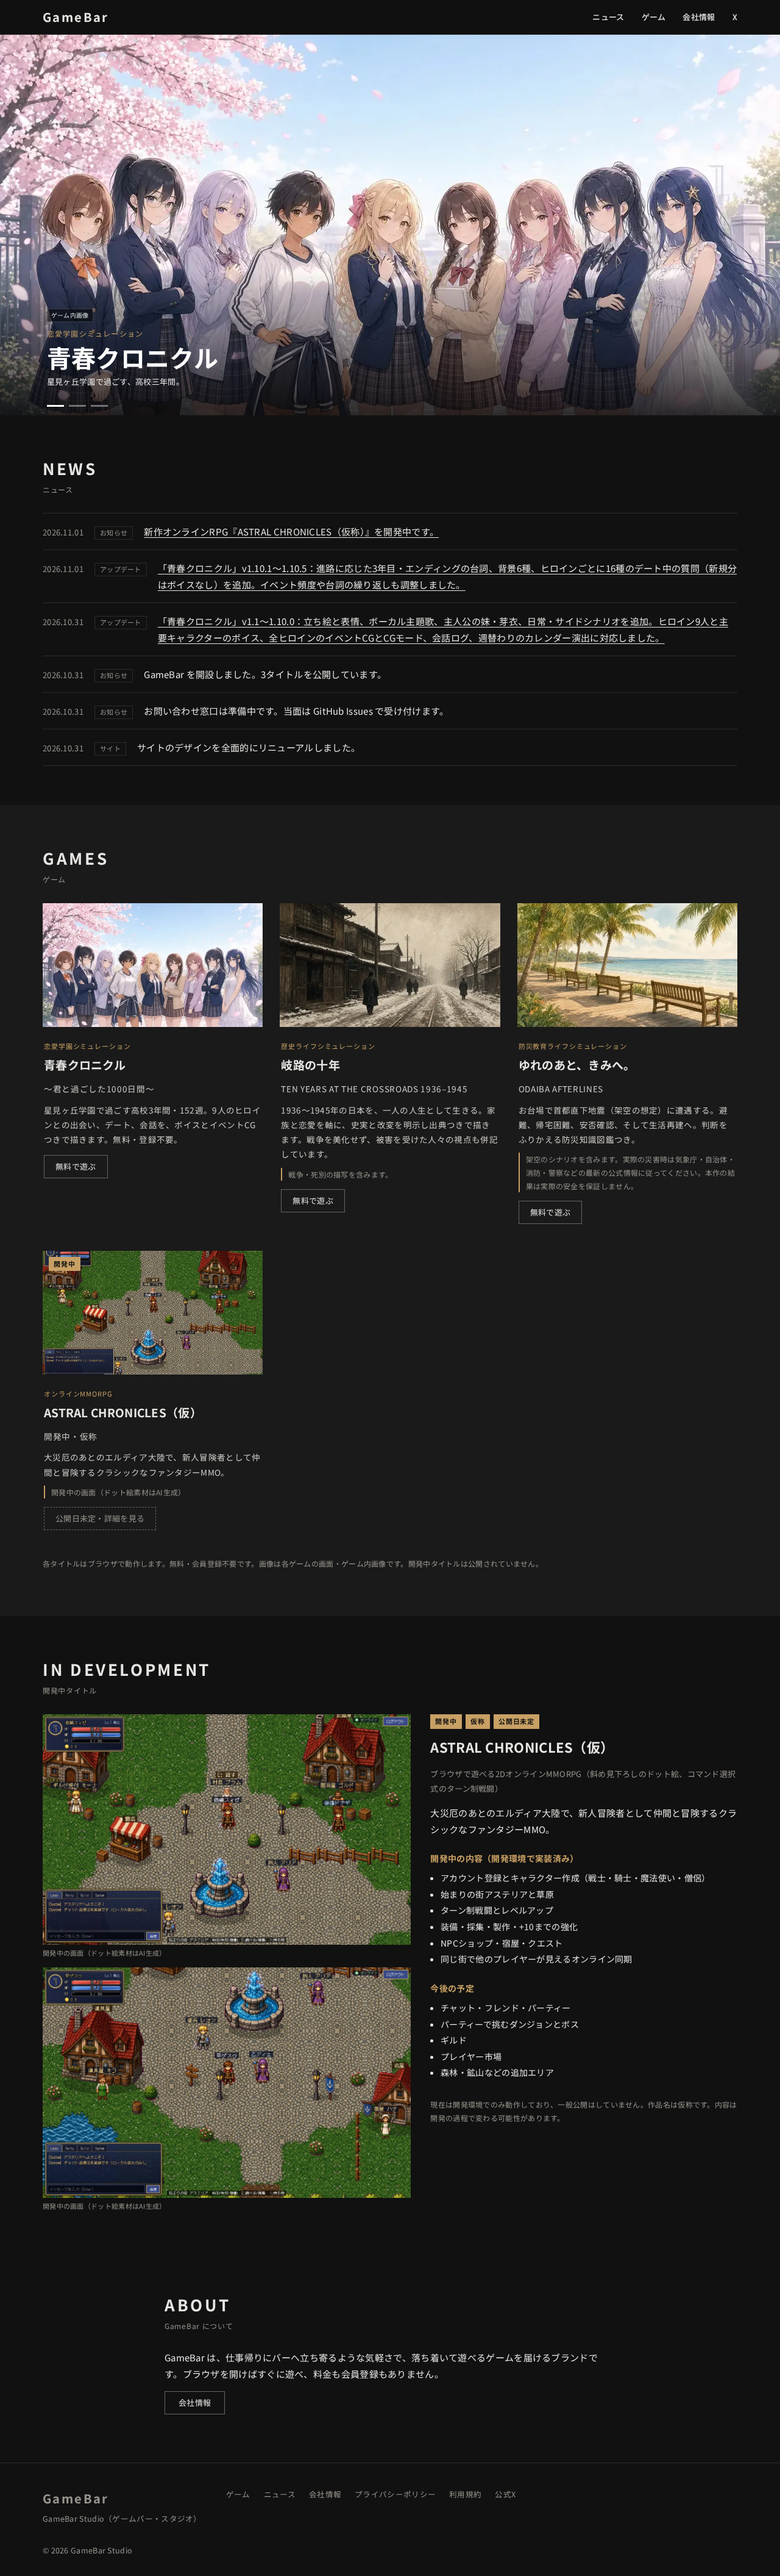
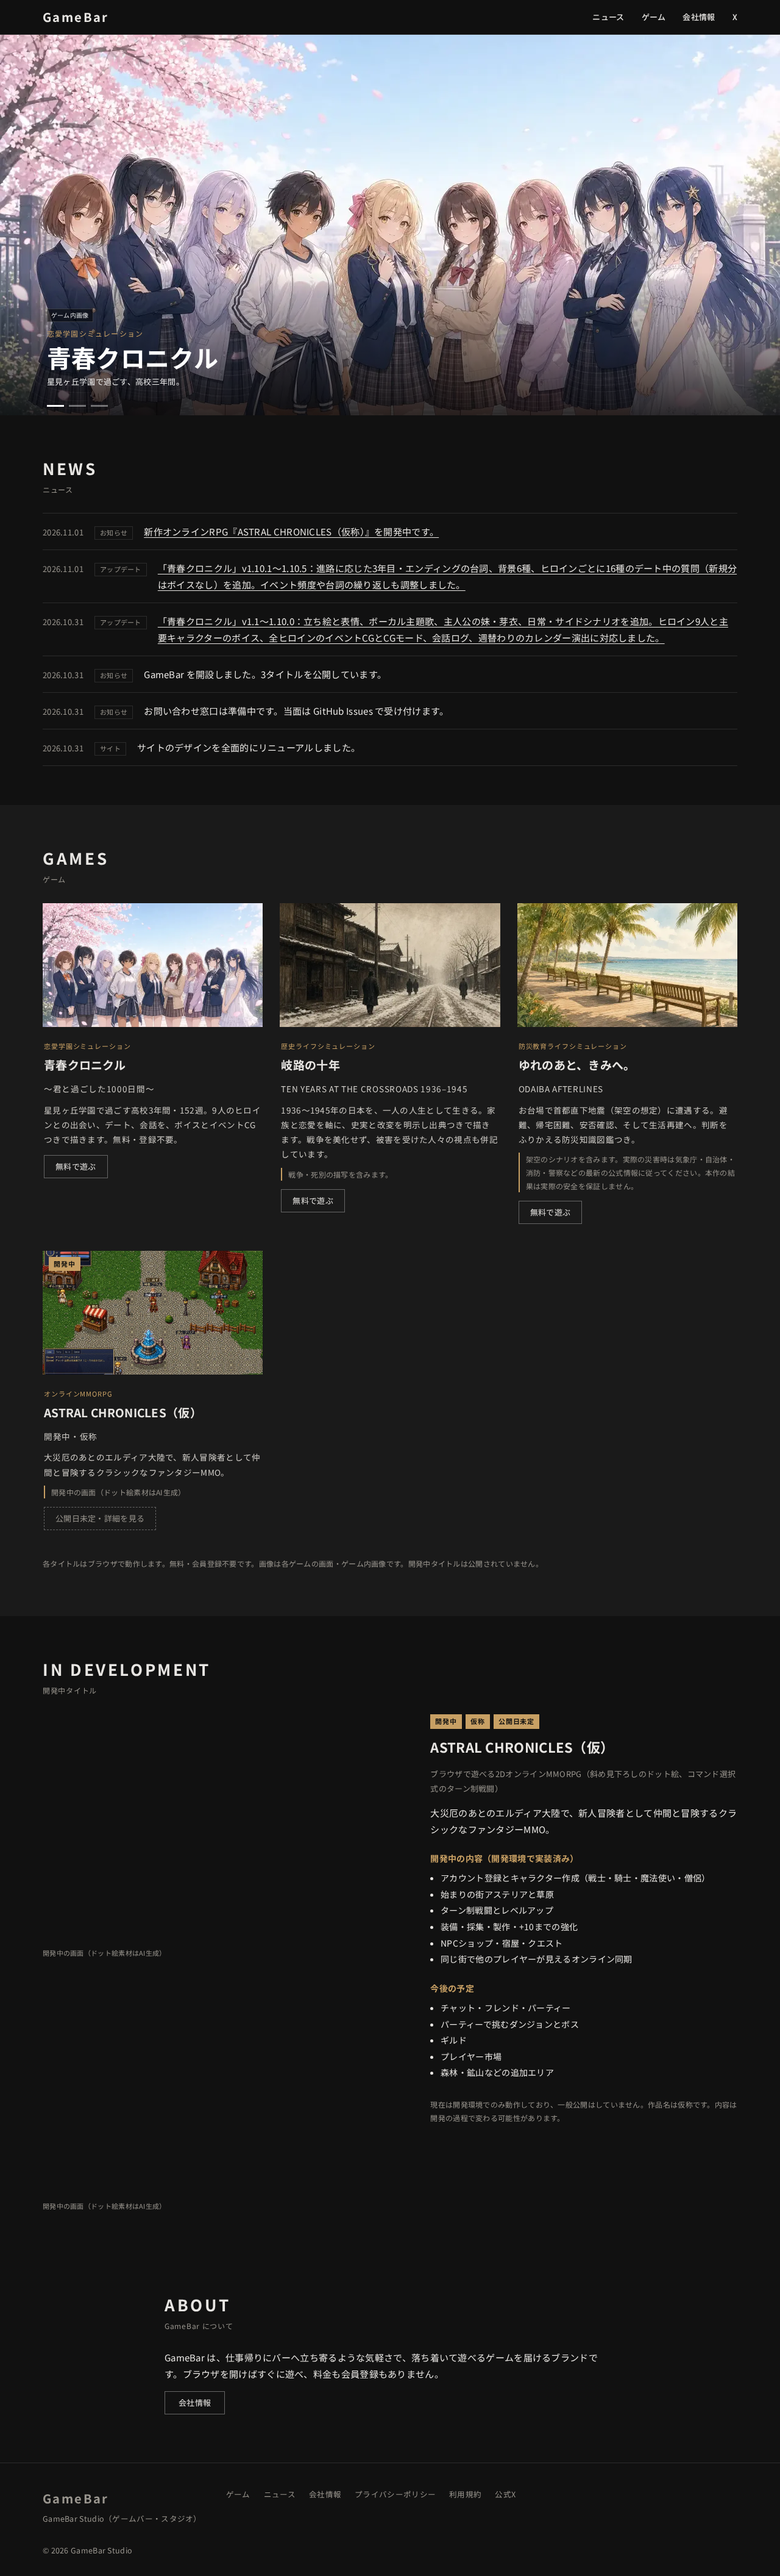
Fix #astral hidden by content blockers: rename .ad/.ai/.at classes, eager images, add astral visibility check

Changed region(s): [[0.0312, 0.6562, 0.5312, 0.875]]

diff --git a/index.html b/index.html
@@ -7,7 +7,7 @@
 <nav class="gn"><a href="/#news">ニュース</a><a href="/#games">ゲーム</a><a href="/about.html">会社情報</a><a href="https://x.com/GameBar777" rel="noopener" target="_blank">X</a></nav></div></header><main><section class="kv" aria-label="注目のタイトル"><div class="sls"><a class="sl on" href="https://gamebar777.github.io/seishun-chronicle/"><img src="img/kv-ripple-years-l.webp" srcset="img/kv-ripple-years-s.webp 640w, img/kv-ripple-years-l.webp 1280w" sizes="100vw" alt="青春クロニクル" width="1280" height="720" fetchpriority="high"><span class="cap"><em>恋愛学園シミュレーション</em><b>青春クロニクル</b><span>星見ヶ丘学園で過ごす、高校三年間。</span><i class="lbl">ゲーム内画像</i></span></a><a class="sl" href="https://gamebar777.github.io/showa-crossroads/"><img src="img/kv-showa-crossroads-l.webp" srcset="img/kv-showa-crossroads-s.webp 640w, img/kv-showa-crossroads-l.webp 1280w" sizes="100vw" alt="岐路の十年" width="1280" height="720" loading="lazy"><span class="cap"><em>歴史ライフシミュレーション</em><b>岐路の十年</b><span>一九三六年から一九四五年。一人の人生として、あの十年を生きる。</span><i class="lbl">ゲーム内画像（AI再現イメージ）</i></span></a><a class="sl" href="https://gamebar777.github.io/odaiba-afterlines/"><img src="img/kv-odaiba-afterlines-l.webp" srcset="img/kv-odaiba-afterlines-s.webp 640w, img/kv-odaiba-afterlines-l.webp 1280w" sizes="100vw" alt="ゆれのあと、きみへ。" width="1280" height="720" loading="lazy"><span class="cap"><em>防災教育ライフシミュレーション</em><b>ゆれのあと、きみへ。</b><span>平日の午後、お台場。そのとき、あなたはどう動くか。</span><i class="lbl">ゲーム内画像</i></span></a></div><div class="dots"><button type="button" aria-label="1枚目" class="on"></button><button type="button" aria-label="2枚目" class=""></button><button type="button" aria-label="3枚目" class=""></button></div></section>
 <section class="sec" id="news"><div class="in"><h2>NEWS<small>ニュース</small></h2><ul class="news"><li><time datetime="2026-11-01">2026.11.01</time><span class="cat">お知らせ</span><p><a href="/#astral">新作オンラインRPG『ASTRAL CHRONICLES（仮称）』を開発中です。</a></p></li><li><time datetime="2026-11-01">2026.11.01</time><span class="cat">アップデート</span><p><a href="https://gamebar777.github.io/seishun-chronicle/">「青春クロニクル」v1.10.1〜1.10.5：進路に応じた3年目・エンディングの台詞、背景6種、ヒロインごとに16種のデート中の質問（新規分はボイスなし）を追加。イベント頻度や台詞の繰り返しも調整しました。</a></p></li><li><time datetime="2026-10-31">2026.10.31</time><span class="cat">アップデート</span><p><a href="https://gamebar777.github.io/seishun-chronicle/">「青春クロニクル」v1.1〜1.10.0：立ち絵と表情、ボーカル主題歌、主人公の妹・芽衣、日常・サイドシナリオを追加。ヒロイン9人と主要キャラクターのボイス、全ヒロインのイベントCGとCGモード、会話ログ、週替わりのカレンダー演出に対応しました。</a></p></li><li><time datetime="2026-10-31">2026.10.31</time><span class="cat">お知らせ</span><p>GameBar を開設しました。3タイトルを公開しています。</p></li><li><time datetime="2026-10-31">2026.10.31</time><span class="cat">お知らせ</span><p>お問い合わせ窓口は準備中です。当面は GitHub Issues で受け付けます。</p></li><li><time datetime="2026-10-31">2026.10.31</time><span class="cat">サイト</span><p>サイトのデザインを全面的にリニューアルしました。</p></li></ul></div></section>
 <section class="sec alt" id="games"><div class="in"><h2>GAMES<small>ゲーム</small></h2><ul class="grid"><li class="gc"><a href="https://gamebar777.github.io/seishun-chronicle/"><div class="th"><img src="img/kv-ripple-years-s.webp" alt="" width="640" height="360" loading="lazy"></div><div class="tx"><em>恋愛学園シミュレーション</em><h3>青春クロニクル</h3><p class="st">～君と過ごした1000日間～</p><p>星見ヶ丘学園で過ごす高校3年間・152週。9人のヒロインとの出会い、デート、会話を、ボイスとイベントCGつきで描きます。無料・登録不要。</p><span class="pl">無料で遊ぶ</span></div></a></li><li class="gc"><a href="https://gamebar777.github.io/showa-crossroads/"><div class="th"><img src="img/kv-showa-crossroads-s.webp" alt="" width="640" height="360" loading="lazy"></div><div class="tx"><em>歴史ライフシミュレーション</em><h3>岐路の十年</h3><p class="st">TEN YEARS AT THE CROSSROADS 1936–1945</p><p>1936〜1945年の日本を、一人の人生として生きる。家族と恋愛を軸に、史実と改変を明示し出典つきで描きます。戦争を美化せず、被害を受けた人々の視点も併記しています。</p><p class="nt">戦争・死別の描写を含みます。</p><span class="pl">無料で遊ぶ</span></div></a></li><li class="gc"><a href="https://gamebar777.github.io/odaiba-afterlines/"><div class="th"><img src="img/kv-odaiba-afterlines-s.webp" alt="" width="640" height="360" loading="lazy"></div><div class="tx"><em>防災教育ライフシミュレーション</em><h3>ゆれのあと、きみへ。</h3><p class="st">ODAIBA AFTERLINES</p><p>お台場で首都直下地震（架空の想定）に遭遇する。避難、帰宅困難、安否確認、そして生活再建へ。判断をふりかえる防災知識図鑑つき。</p><p class="nt">架空のシナリオを含みます。実際の災害時は気象庁・自治体・消防・警察などの最新の公式情報に従ってください。本作の結果は実際の安全を保証しません。</p><span class="pl">無料で遊ぶ</span></div></a></li><li class="gc dev"><a href="#astral"><div class="th"><img src="img/astral-town-s.webp" alt="ASTRAL CHRONICLES（仮）開発中の画面" width="640" height="360" loading="lazy"><i class="dvb">開発中</i></div><div class="tx"><em>オンラインMMORPG</em><h3>ASTRAL CHRONICLES（仮）</h3><p class="st">開発中・仮称</p><p>大災厄のあとのエルディア大陸で、新人冒険者として仲間と冒険するクラシックなファンタジーMMO。</p><p class="nt">開発中の画面（ドット絵素材はAI生成）</p><span class="pl off">公開日未定・詳細を見る</span></div></a></li></ul><p class="fine">各タイトルはブラウザで動作します。無料・会員登録不要です。画像は各ゲームの画面・ゲーム内画像です。開発中タイトルは公開されていません。</p></div></section>
-<section class="sec astral" id="astral"><div class="in"><h2>IN DEVELOPMENT<small>開発中タイトル</small></h2><div class="ad"><div class="ai"><figure><img src="img/astral-town.webp" alt="始まりの街アステリアの開発中画面" width="1280" height="800" loading="lazy"><figcaption>開発中の画面（ドット絵素材はAI生成）</figcaption></figure><figure><img src="img/astral-online.webp" alt="同じ街に他のプレイヤーが表示される開発中画面" width="1280" height="800" loading="lazy"><figcaption>開発中の画面（ドット絵素材はAI生成）</figcaption></figure></div><div class="at"><p class="tags"><span class="dvb">開発中</span><span class="dvb">仮称</span><span class="dvb">公開日未定</span></p><h3>ASTRAL CHRONICLES（仮）</h3><p class="gn2">ブラウザで遊べる2DオンラインMMORPG（斜め見下ろしのドット絵、コマンド選択式のターン制戦闘）</p><p>大災厄のあとのエルディア大陸で、新人冒険者として仲間と冒険するクラシックなファンタジーMMO。</p><h4>開発中の内容（開発環境で実装済み）</h4><ul><li>アカウント登録とキャラクター作成（戦士・騎士・魔法使い・僧侶）</li><li>始まりの街アステリアと草原</li><li>ターン制戦闘とレベルアップ</li><li>装備・採集・製作・+10までの強化</li><li>NPCショップ・宿屋・クエスト</li><li>同じ街で他のプレイヤーが見えるオンライン同期</li></ul><h4>今後の予定</h4><ul><li>チャット・フレンド・パーティー</li><li>パーティーで挑むダンジョンとボス</li><li>ギルド</li><li>プレイヤー市場</li><li>森林・鉱山などの追加エリア</li></ul><p class="fine">現在は開発環境でのみ動作しており、一般公開はしていません。作品名は仮称です。内容は開発の過程で変わる可能性があります。</p></div></div></div></section><section class="sec" id="about"><div class="in narrow"><h2>ABOUT<small>GameBar について</small></h2><p>GameBar は、仕事帰りにバーへ立ち寄るような気軽さで、落ち着いて遊べるゲームを届けるブランドです。ブラウザを開けばすぐに遊べ、料金も会員登録もありません。</p><p><a class="more" href="/about.html">会社情報</a></p></div></section>
+<section class="sec astral" id="astral"><div class="in"><h2>IN DEVELOPMENT<small>開発中タイトル</small></h2><div class="dvw"><div class="dvm"><figure><img src="img/astral-town.webp" alt="始まりの街アステリアの開発中画面" width="1280" height="800" decoding="async"><figcaption>開発中の画面（ドット絵素材はAI生成）</figcaption></figure><figure><img src="img/astral-online.webp" alt="同じ街に他のプレイヤーが表示される開発中画面" width="1280" height="800" decoding="async"><figcaption>開発中の画面（ドット絵素材はAI生成）</figcaption></figure></div><div class="dvt"><p class="tags"><span class="dvb">開発中</span><span class="dvb">仮称</span><span class="dvb">公開日未定</span></p><h3>ASTRAL CHRONICLES（仮）</h3><p class="gn2">ブラウザで遊べる2DオンラインMMORPG（斜め見下ろしのドット絵、コマンド選択式のターン制戦闘）</p><p>大災厄のあとのエルディア大陸で、新人冒険者として仲間と冒険するクラシックなファンタジーMMO。</p><h4>開発中の内容（開発環境で実装済み）</h4><ul><li>アカウント登録とキャラクター作成（戦士・騎士・魔法使い・僧侶）</li><li>始まりの街アステリアと草原</li><li>ターン制戦闘とレベルアップ</li><li>装備・採集・製作・+10までの強化</li><li>NPCショップ・宿屋・クエスト</li><li>同じ街で他のプレイヤーが見えるオンライン同期</li></ul><h4>今後の予定</h4><ul><li>チャット・フレンド・パーティー</li><li>パーティーで挑むダンジョンとボス</li><li>ギルド</li><li>プレイヤー市場</li><li>森林・鉱山などの追加エリア</li></ul><p class="fine">現在は開発環境でのみ動作しており、一般公開はしていません。作品名は仮称です。内容は開発の過程で変わる可能性があります。</p></div></div></div></section><section class="sec" id="about"><div class="in narrow"><h2>ABOUT<small>GameBar について</small></h2><p>GameBar は、仕事帰りにバーへ立ち寄るような気軽さで、落ち着いて遊べるゲームを届けるブランドです。ブラウザを開けばすぐに遊べ、料金も会員登録もありません。</p><p><a class="more" href="/about.html">会社情報</a></p></div></section>
 <script>(()=>{const s=[...document.querySelectorAll('.sl')],d=[...document.querySelectorAll('.dots button')];let i=0,t;const go=n=>{s[i].classList.remove('on');d[i].classList.remove('on');i=(n+s.length)%s.length;s[i].classList.add('on');d[i].classList.add('on')};
 d.forEach((b,n)=>b.onclick=()=>{go(n);clearInterval(t)});if(!matchMedia('(prefers-reduced-motion: reduce)').matches)t=setInterval(()=>go(i+1),6000)})()</script></main><footer class="gf"><div class="in"><div class="fl"><a class="logo" href="/">GameBar</a><p>GameBar Studio（ゲームバー・スタジオ）</p></div>
 <nav><a href="/#games">ゲーム</a><a href="/#news">ニュース</a><a href="/about.html">会社情報</a><a href="/privacy.html">プライバシーポリシー</a><a href="/terms.html">利用規約</a><a href="https://x.com/GameBar777" rel="noopener" target="_blank">公式X</a></nav>

diff --git a/style.css b/style.css
@@ -45,6 +45,6 @@ h2,.ph h1{font-size:26px;letter-spacing:.14em;margin:0 0 28px;font-weight:700}h2
 .dvb{display:inline-block;font-style:normal;font-size:11px;font-weight:700;letter-spacing:.08em;background:var(--acc);color:#111;padding:2px 8px}
 .th{position:relative}.th .dvb{position:absolute;left:10px;top:10px}
 .pl.off{border-style:dashed;color:var(--mute)}.nt{font-size:11px;color:var(--mute)}
-.ad{display:grid;grid-template-columns:1.2fr 1fr;gap:32px}.ai{display:grid;gap:14px}.ai figure{margin:0}.ai img{width:100%;height:auto;display:block}.ai figcaption{font-size:11px;color:var(--mute);margin-top:4px}
-.at .tags{display:flex;gap:6px;margin:0 0 10px}.at h3{font-size:22px;margin:0 0 6px}.gn2{font-size:13px;color:var(--mute)}.at h4{font-size:14px;margin:22px 0 6px;color:var(--acc)}.at ul{margin:0;padding-left:1.2em;line-height:1.9;font-size:14px}
-@media(max-width:820px){.ad{grid-template-columns:1fr}}
+.dvw{display:grid;grid-template-columns:1.2fr 1fr;gap:32px}.dvm{display:grid;gap:14px}.dvm figure{margin:0}.dvm img{width:100%;height:auto;display:block}.dvm figcaption{font-size:11px;color:var(--mute);margin-top:4px}
+.dvt .tags{display:flex;gap:6px;margin:0 0 10px}.dvt h3{font-size:22px;margin:0 0 6px}.gn2{font-size:13px;color:var(--mute)}.dvt h4{font-size:14px;margin:22px 0 6px;color:var(--acc)}.dvt ul{margin:0;padding-left:1.2em;line-height:1.9;font-size:14px}
+@media(max-width:820px){.dvw{grid-template-columns:1fr}}
